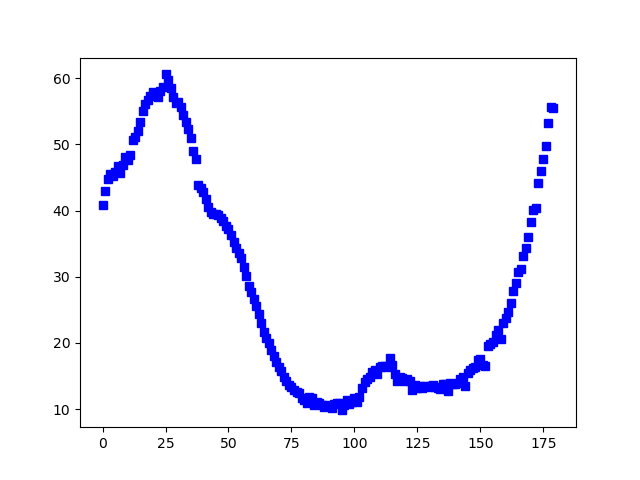
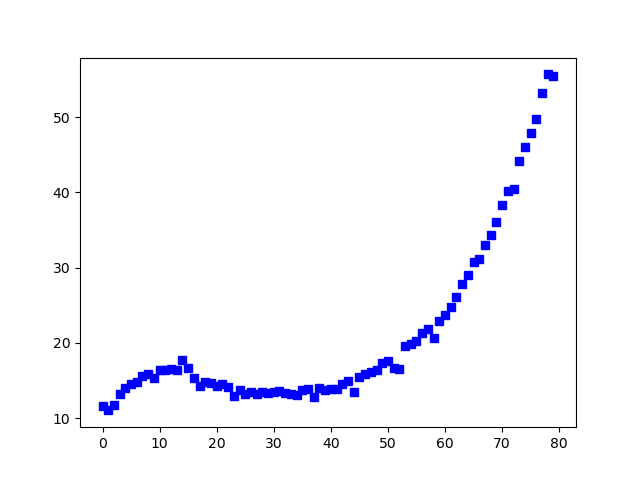
updated auto reg

diff --git a/code/auto_reg_2.py b/code/auto_reg_2.py
@@ -19,7 +19,7 @@ import linear_model
 import utils
 
 # get next  days case number, starting from T, using hyperparamater K
-def get_next_case_num(raw, feature,country,t,T,K):
+def fit_next_case_num(raw, feature,country,t,T,K):
     print(" " )
 
     # print("predicting for country:%s" % (country))
@@ -45,25 +45,28 @@ def get_next_case_num(raw, feature,country,t,T,K):
     print("Training error = %.3f" % trainError)
 
     # T+1
-    # x_T+1 = [1, dT−K+1, dT −K+2, . . . , dT]
     X_test = np.concatenate(([1], ca_case_ts[T - K + 1:T]), axis=0).reshape(1, K)
     y_test = np.array(ca_case_ts[T]).reshape(1, 1)
-    y_pred_curr = model.predict(X_test)
+    y_test_overall = y_test
+    y_pred = model.predict(X_test).reshape(1, 1)
     # print("predicted case number: %.3f, real case number: %.3f" % (y_pred_curr, y_test))
-
+    y_pred_overall = y_pred
     # predict
     for i in range(1, t):
         # print("day#: %d" % (i + 1))
-        X_test_i = np.concatenate(([1], ca_case_ts[T - K + 1 + i:T + i]), axis=0).reshape(1, K)
+        # new X_(T+1)
+        a=X_test[:,2:]
+        X_test = np.concatenate(([[1]], a, y_pred), axis=1)
         y_test_i = np.array(ca_case_ts[T + i]).reshape(1, 1)
-        y_pred_curr = model.predict(X_test_i)
-        print("predicted case number: %.3f, real case number: %.3f" % (y_pred_curr, y_test_i))
+        y_test_overall = np.concatenate((y_test_overall, y_test_i), axis=0)
+        y_pred = model.predict(X_test).reshape(1, 1)
+        print("predicted case number: %.3f, real case number: %.3f" % (y_pred, y_test_i))
+        y_pred_overall = np.concatenate((y_pred_overall,y_pred), axis=0)
+        # X_test = np.concatenate((X_test, X_test_i), axis=0)
 
-        X_test = np.concatenate((X_test, X_test_i), axis=0)
-        y_test = np.concatenate((y_test, y_test_i), axis=0)
 
-    y_pred = model.predict(X_test)
-    testError = np.mean((y_pred - y_test) ** 2)
+    # y_pred = model.predict(X_test)
+    testError = np.mean((y_pred_overall - y_test_overall) ** 2)
     print("Test error     = %.3f" % testError)
     return [trainError,testError]
 
@@ -79,23 +82,30 @@ if __name__ == "__main__":
     tr = []
     te = []
 
-    for k in range(3, 50):
-        retval = get_next_case_num(raw,"deaths", "CA", 11, 280, k)
+# train stage
+    for k in range(10, 13):
+        retval = fit_next_case_num(raw,"deaths", "CA", 5, 268, k)
         tr.append(retval[0])
         te.append(retval[1])
 
-    te_min = np.min(tr)
+    te_min = np.min(te)
     min_k = np.argmin(te)+3
 
     print("min: %.5f, K : %d" % (te_min, np.argmin(te)+3))
     plt.figure()
+
     plt.plot(te, "r", tr, "b")
     filename = os.path.join("..", "figs", "auto_reg_error.png")
     print("Saving", filename)
     plt.savefig(filename)
     plt.clf()
 
-    get_next_case_num(raw, "CA", 11, 260, min_k)
+#280 , 268-> 11, 280 ->11
+    fit_next_case_num(raw, "deaths","CA", 5, 268, min_k)
+
+# find best model with k value
+
+    # get_next_case_num(raw, "CA", 11, 260, min_k)
 
 
 

diff --git a/code/test.py b/code/test.py
@@ -79,7 +79,7 @@ if __name__ == "__main__":
     # plt.plot([1, 2, 3, 4], 'r--', [1, 4, 9, 16], 'ro')
     # plt.show()
 
-    start_k = 100
+    start_k = 200
     plt.figure()
     N, D = ca_14_cases.shape
     a = ca_14_cases[start_k:, 1]
